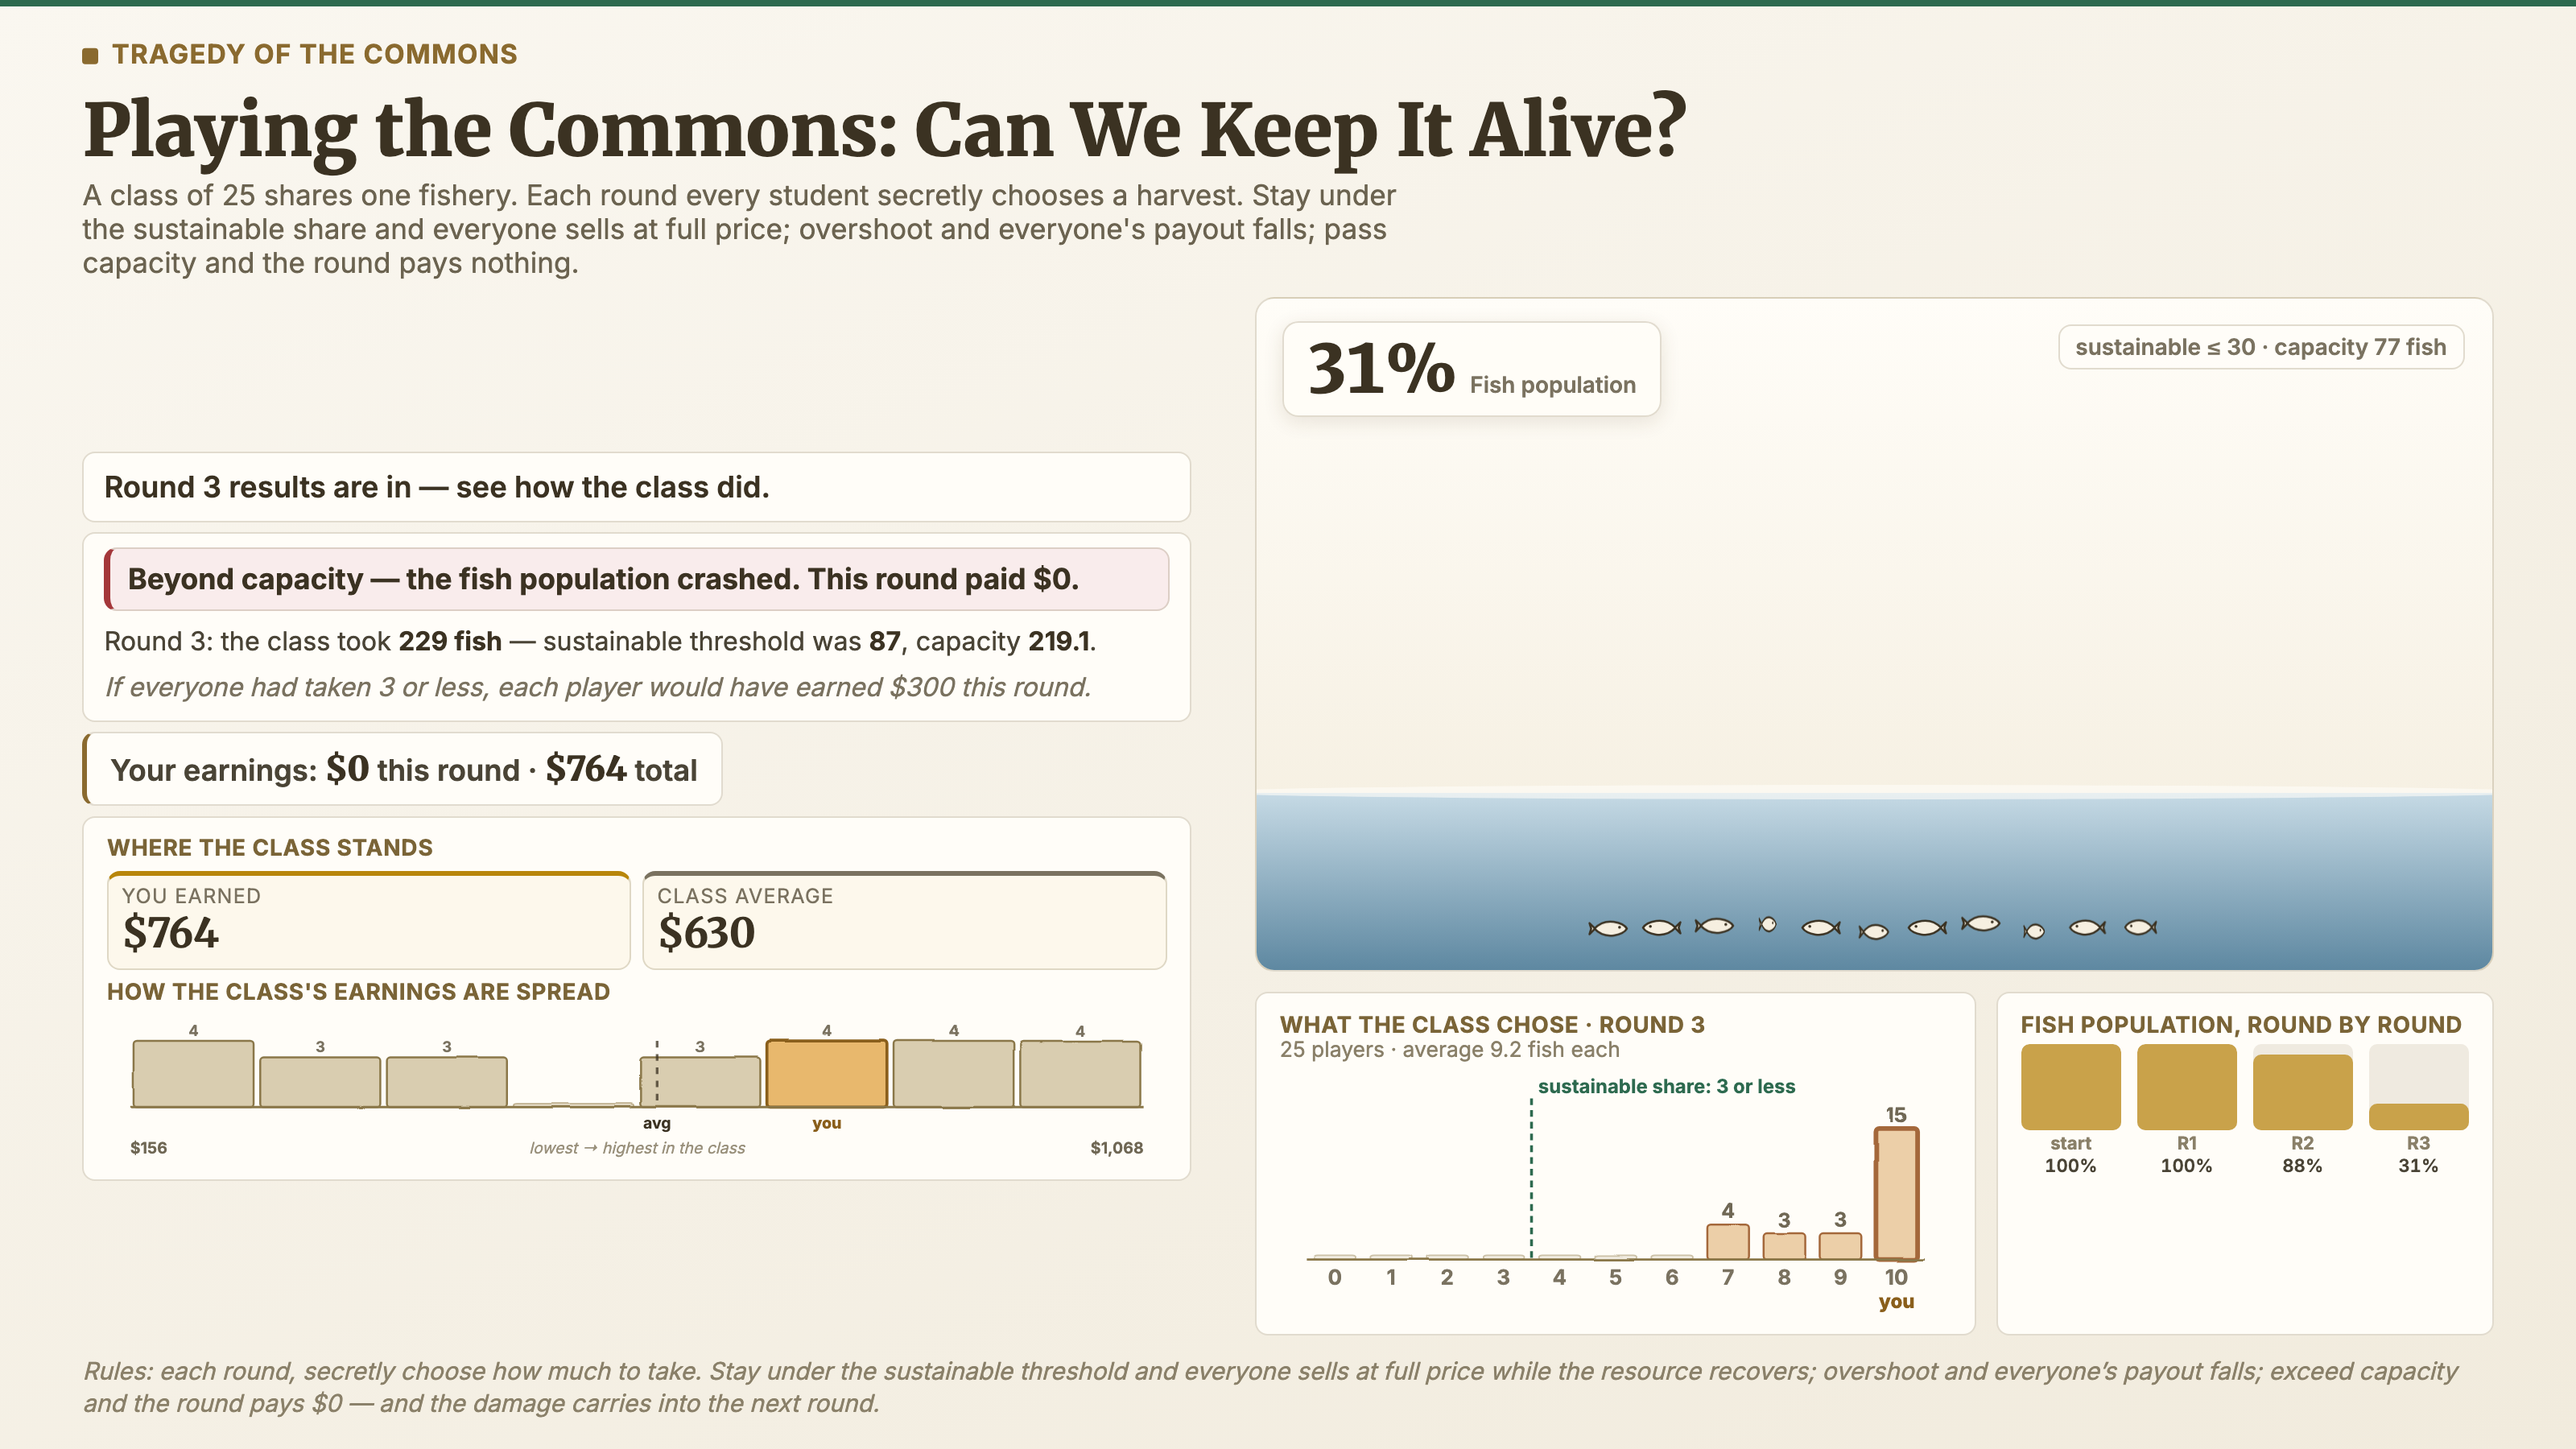
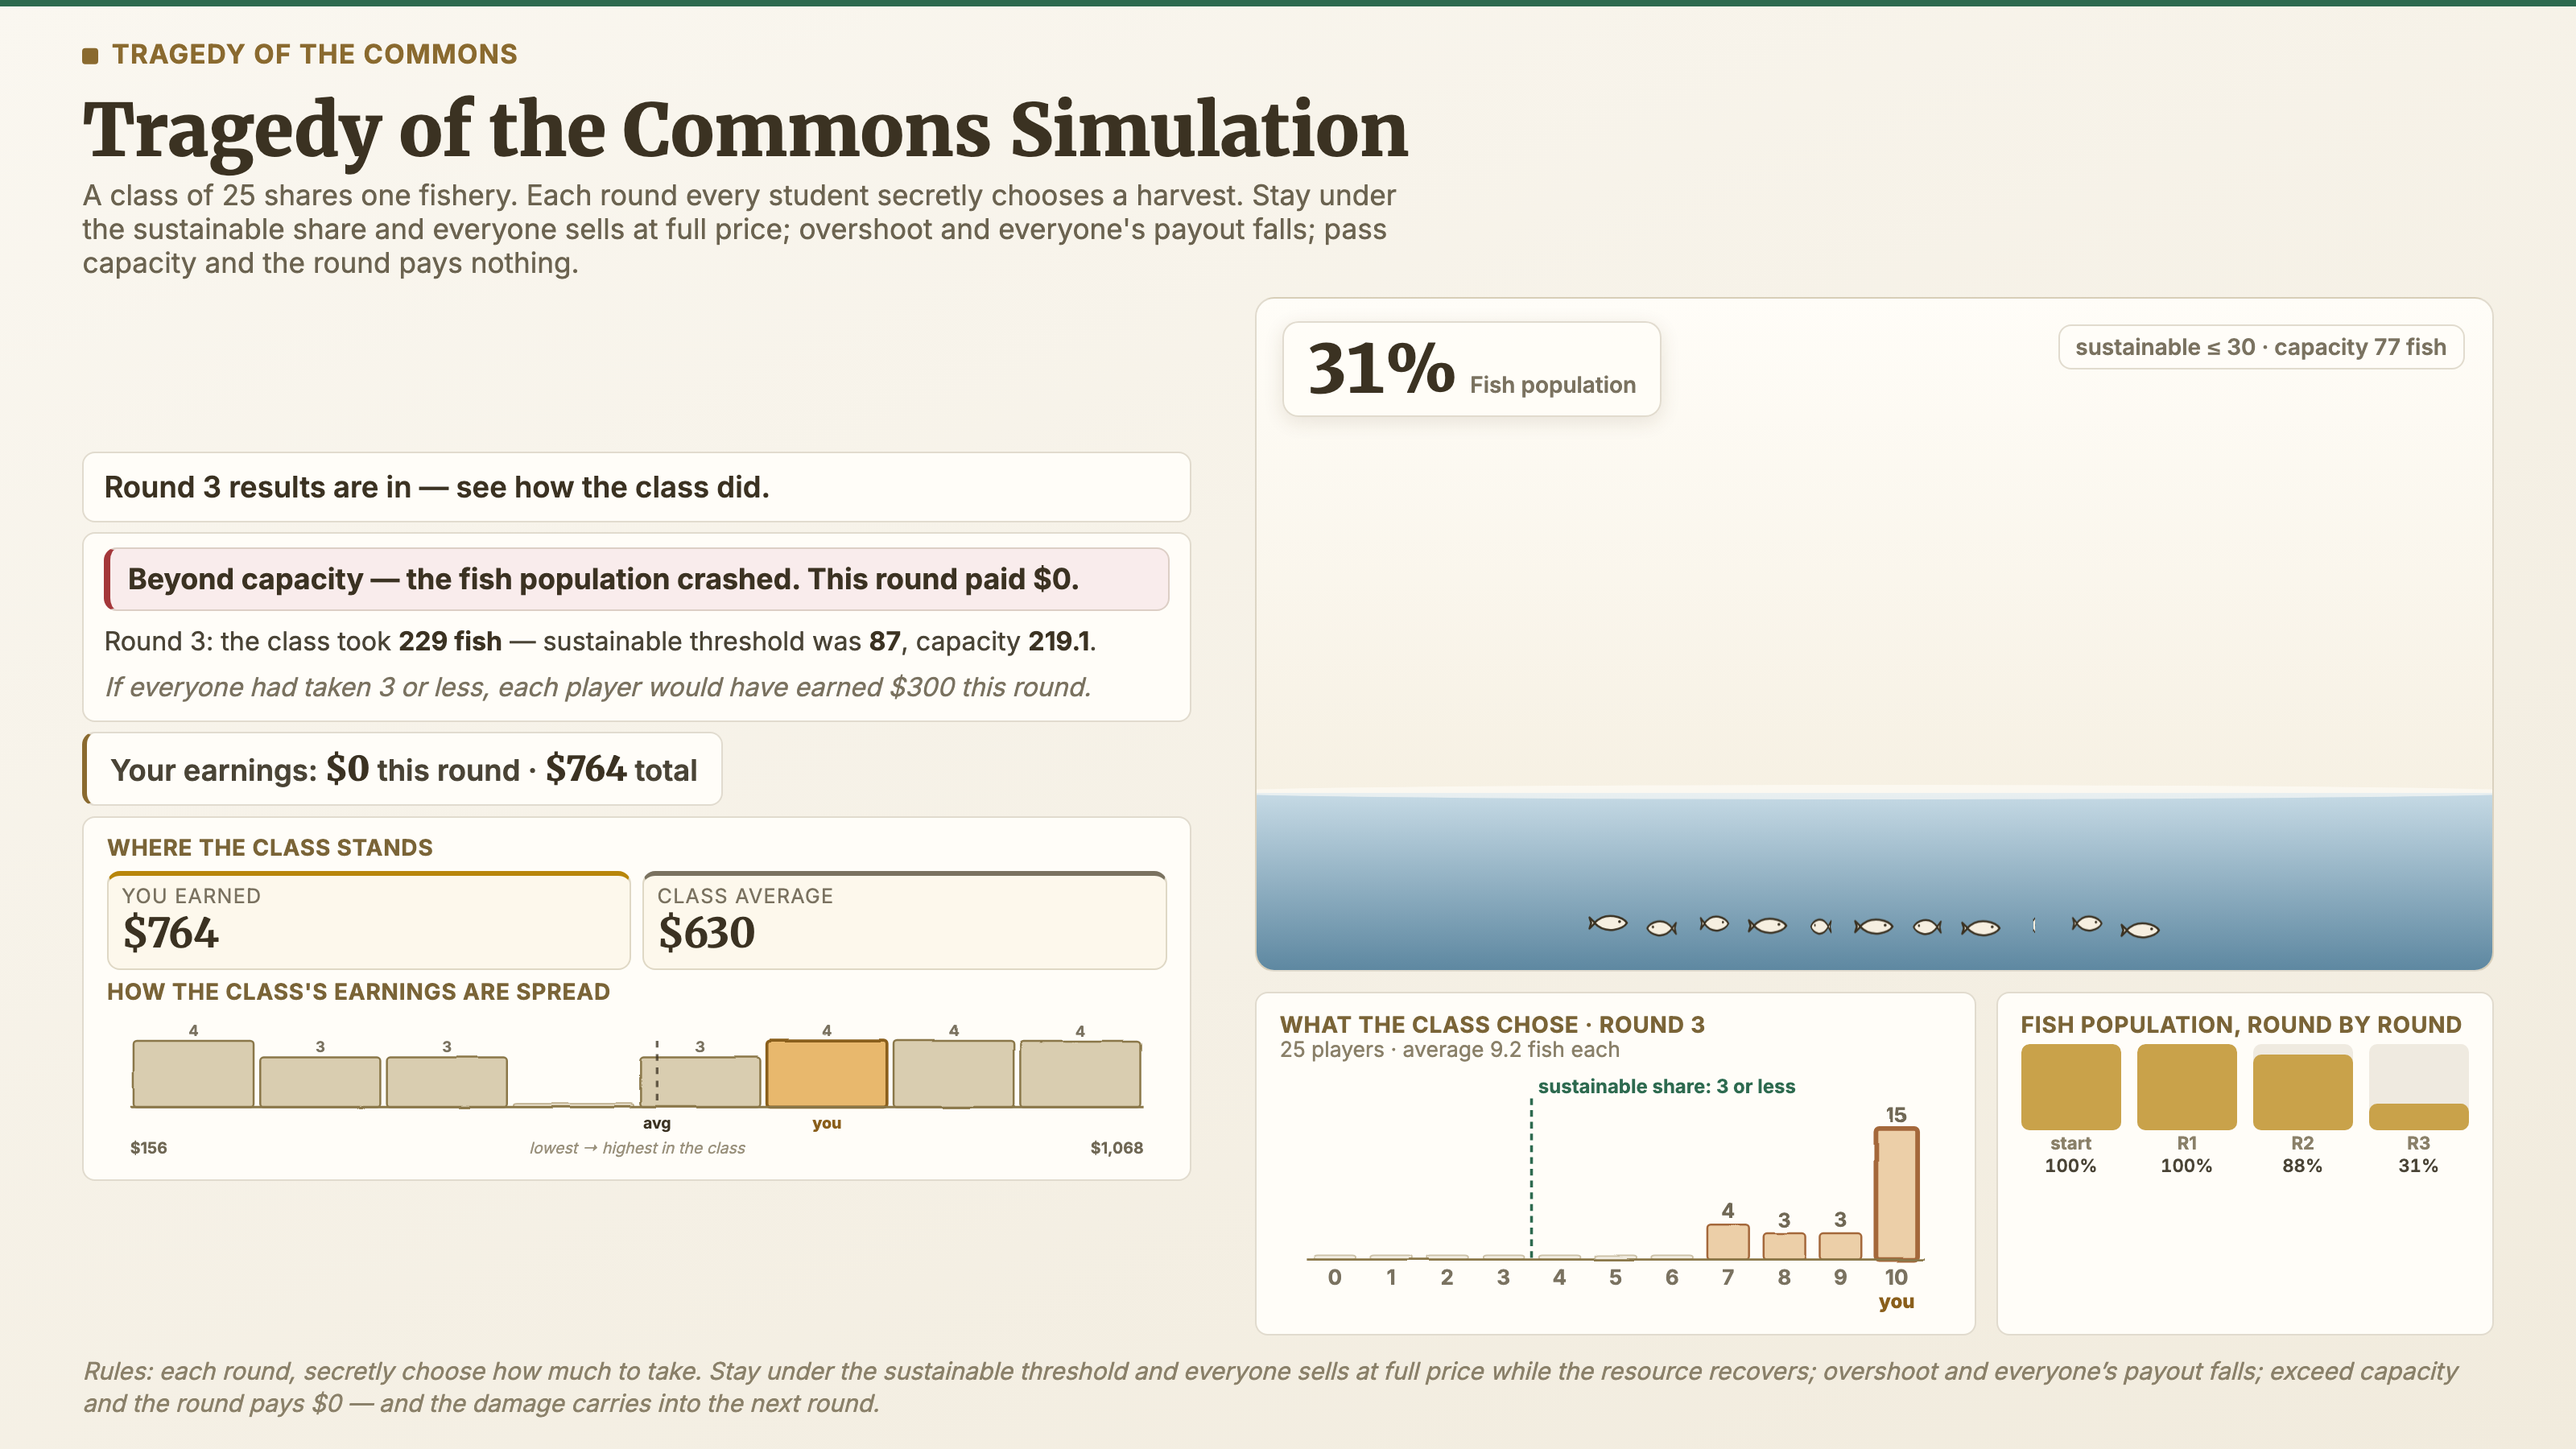
Fix the commons demo's stale title, and slow both walkthroughs
The commons slide was renamed to "Tragedy of the Commons Simulation" in
chapter2.py, but the demo passes its own title, so it kept showing the old one.
Both titles are now named constants and check_titles() reads the BUILT decks and
fails the build if either has drifted -- verified it actually fails, rather than
trusting it to.

Pacing: the commons walkthrough gets one PACE dial over the whole script, since
its beats are all "watch this happen" (43s -> 58s). Evolve slows only the
generation beats, which is the part you actually watch: 3.1s -> 4.0s per
generation and 2.5s -> 3.2s after the barrier (84s -> 98s). Setup beats are
untouched in both.

Cover images re-captured.

Changed region(s): [[0.0312, 0.0622, 0.6562, 0.1244], [0.625, 0.6222, 0.8438, 0.6533]]

diff --git a/commons/index.html b/commons/index.html
@@ -3,7 +3,7 @@
 <head>
 <meta charset="UTF-8">
 <meta name="viewport" content="width=device-width, initial-scale=1.0">
-<title>Tragedy of the Commons — self-running demo</title>
+<title>Tragedy of the Commons Simulation — self-running demo</title>
 <link rel="preconnect" href="https://fonts.googleapis.com">
 <link rel="preconnect" href="https://fonts.gstatic.com" crossorigin>
 <link href="https://fonts.googleapis.com/css2?family=Merriweather:ital,wght@0,400;0,700;0,900;1,400&family=Inter:wght@400;600;700;800;900&display=swap" rel="stylesheet">
@@ -669,7 +669,7 @@ img.bleed{position:absolute; inset:0; width:100%; height:100%; object-fit:cover;
   <div class="cm-root">
     <div class="cm-head">
       <div class="eyebrow">Tragedy of the Commons</div>
-      <h2 class="heading">Playing the Commons: Can We Keep It Alive?</h2>
+      <h2 class="heading">Tragedy of the Commons Simulation</h2>
       <div class="cm-sub">A class of 25 shares one fishery. Each round every student secretly chooses a harvest. Stay under the sustainable share and everyone sells at full price; overshoot and everyone's payout falls; pass capacity and the round pays nothing.</div>
     </div>
     <div class="cm-body">
@@ -2169,10 +2169,14 @@ show(start);
         [5200, ()=>{ const b=bar.querySelector('[data-cmreplay]'); if(b) b.hidden=false; },
          'Nobody cheated. Every individual choice was the rational one — that is what makes it a tragedy.']
       ];
+      /* one dial for the whole walkthrough: the beats are all "watch this
+         happen", so they slow together and the captions get read */
+      const PACE=1.35;
       function play(){
         if(step>=script.length) return;
         const s=script[step++];
-        tid=setTimeout(function(){ txt.textContent=s[2]; try{ s[1](); }catch(e){} play(); }, s[0]);
+        tid=setTimeout(function(){ txt.textContent=s[2]; try{ s[1](); }catch(e){} play(); },
+                       Math.round(s[0]*PACE));
       }
       const FR=CMQ.has('freeze') ? parseInt(CMQ.get('freeze'),10) : -1;
       if(FR>=0){

diff --git a/evolve/index.html b/evolve/index.html
@@ -4127,12 +4127,12 @@ function demoRun(){
     if(s){ full.push(s); return; }
     if(full.length && full[full.length-1][2].indexOf('The run begins')>-1){
       for(var g=2; g<=10; g++) (function(gg){
-        full.push([3100, function(){ doc({genIdx:gg}); },
+        full.push([4000, function(){ doc({genIdx:gg}); },
           'Generation '+gg+' of 10. Watch the colors: a mix persists for several generations before one takes over.']);
       })(g);
     } else {
       for(var k=2; k<=10; k++) (function(kk){
-        full.push([2500, function(){ doc({splitIdx:kk}); },
+        full.push([3200, function(){ doc({splitIdx:kk}); },
           'Generation '+kk+' since the barrier. The two halves are drifting apart.']);
       })(k);
     }
@@ -5570,10 +5570,14 @@ show(start);
         [5200, ()=>{ const b=bar.querySelector('[data-cmreplay]'); if(b) b.hidden=false; },
          'Nobody cheated. Every individual choice was the rational one — that is what makes it a tragedy.']
       ];
+      /* one dial for the whole walkthrough: the beats are all "watch this
+         happen", so they slow together and the captions get read */
+      const PACE=1.35;
       function play(){
         if(step>=script.length) return;
         const s=script[step++];
-        tid=setTimeout(function(){ txt.textContent=s[2]; try{ s[1](); }catch(e){} play(); }, s[0]);
+        tid=setTimeout(function(){ txt.textContent=s[2]; try{ s[1](); }catch(e){} play(); },
+                       Math.round(s[0]*PACE));
       }
       const FR=CMQ.has('freeze') ? parseInt(CMQ.get('freeze'),10) : -1;
       if(FR>=0){
